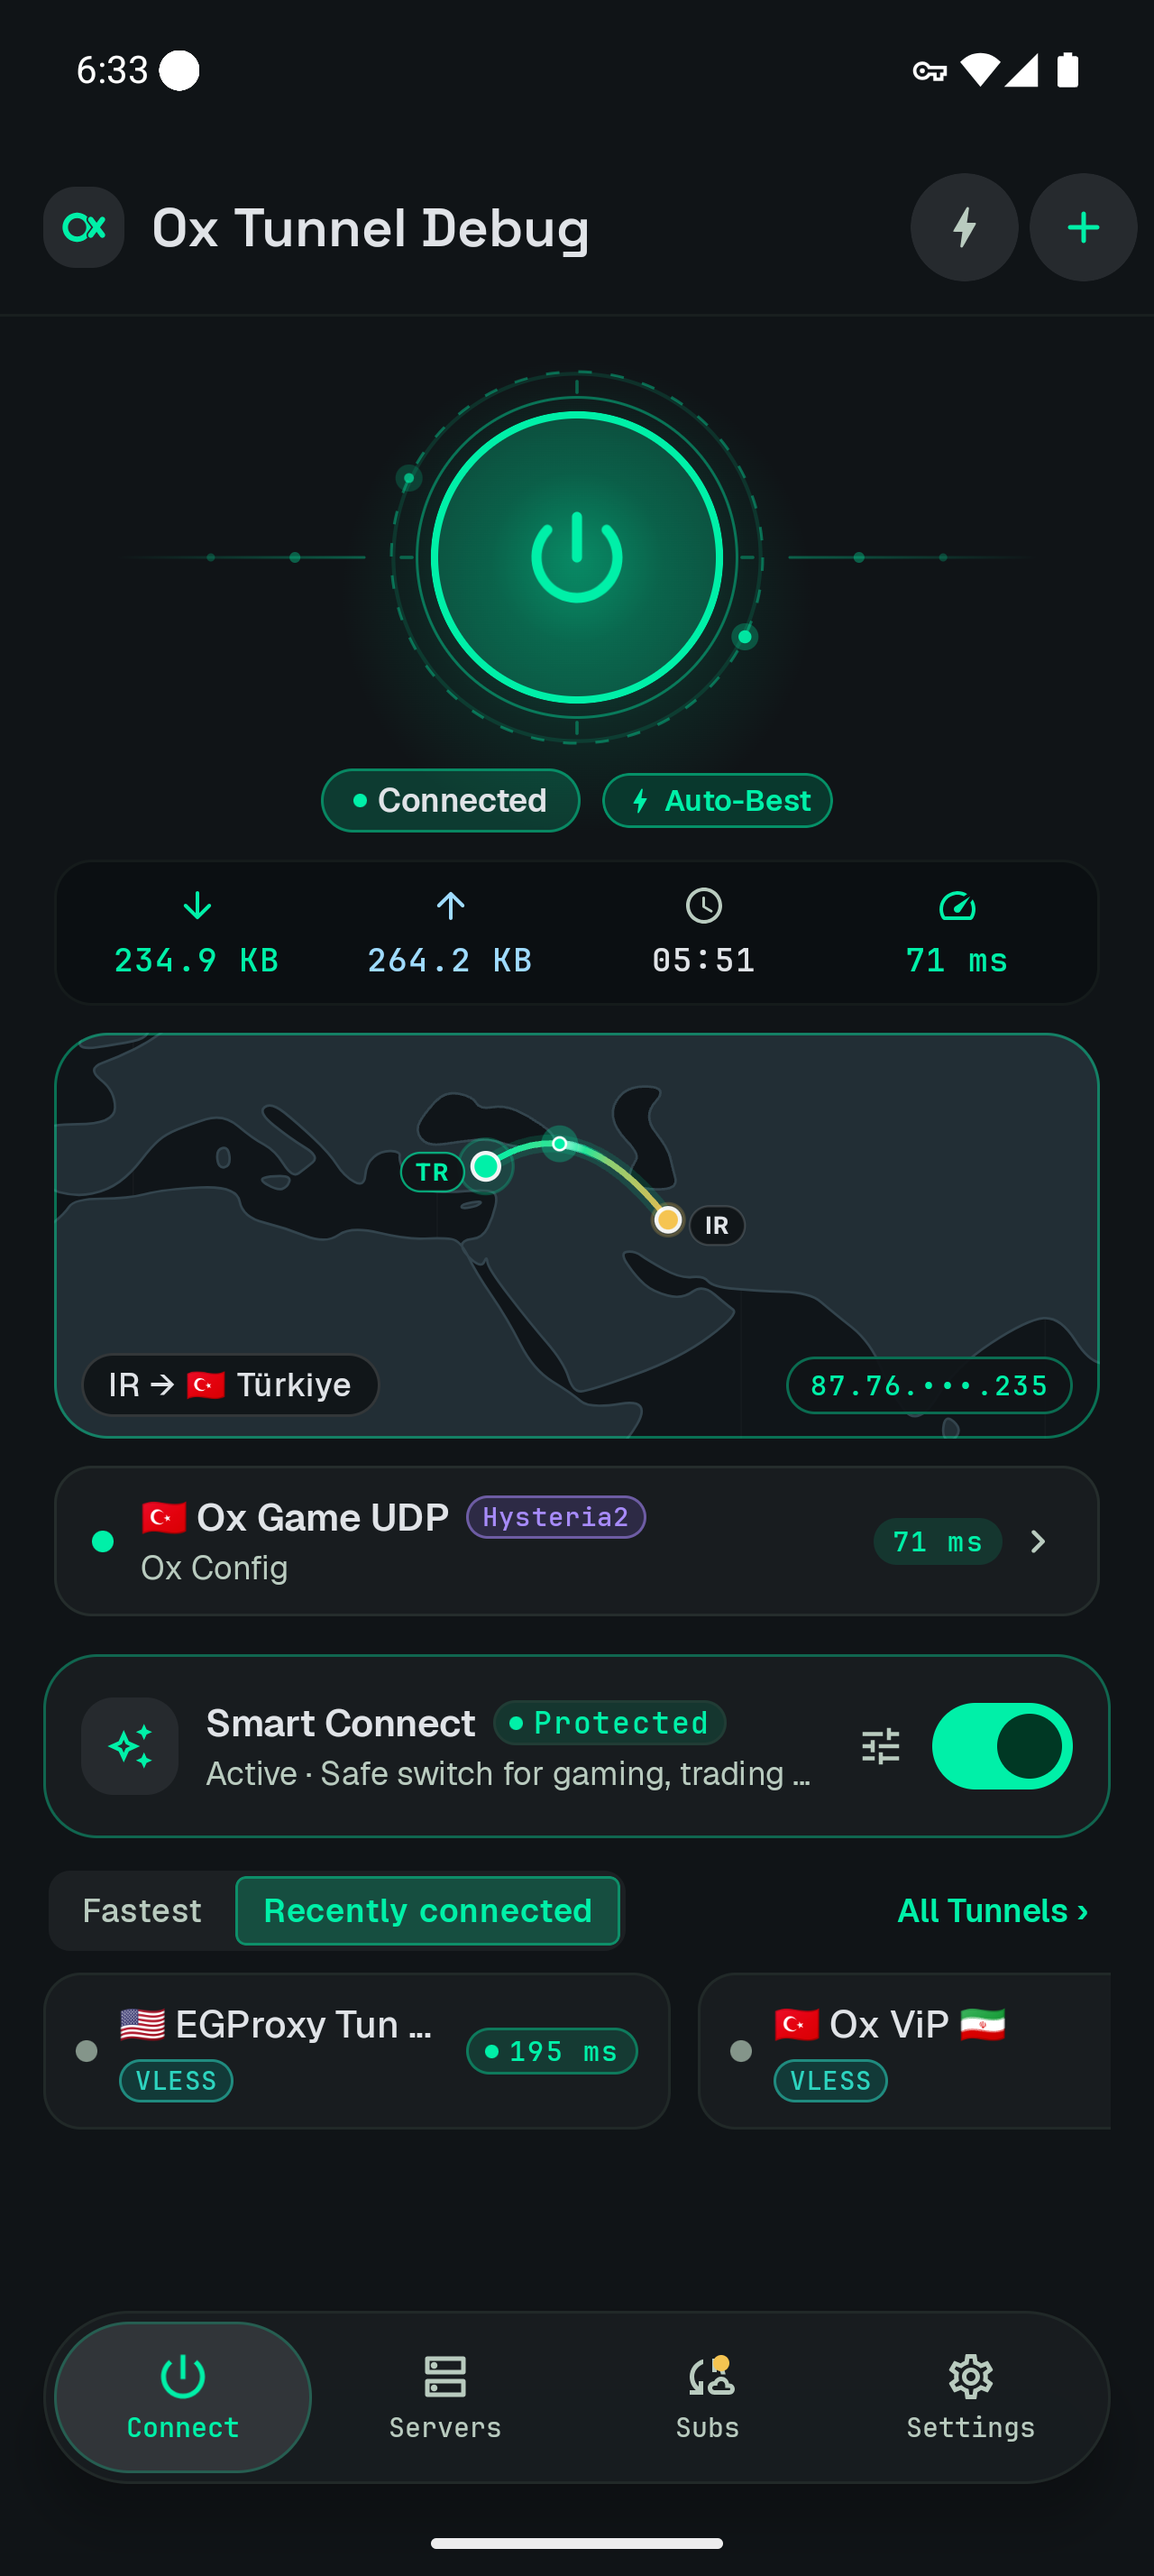
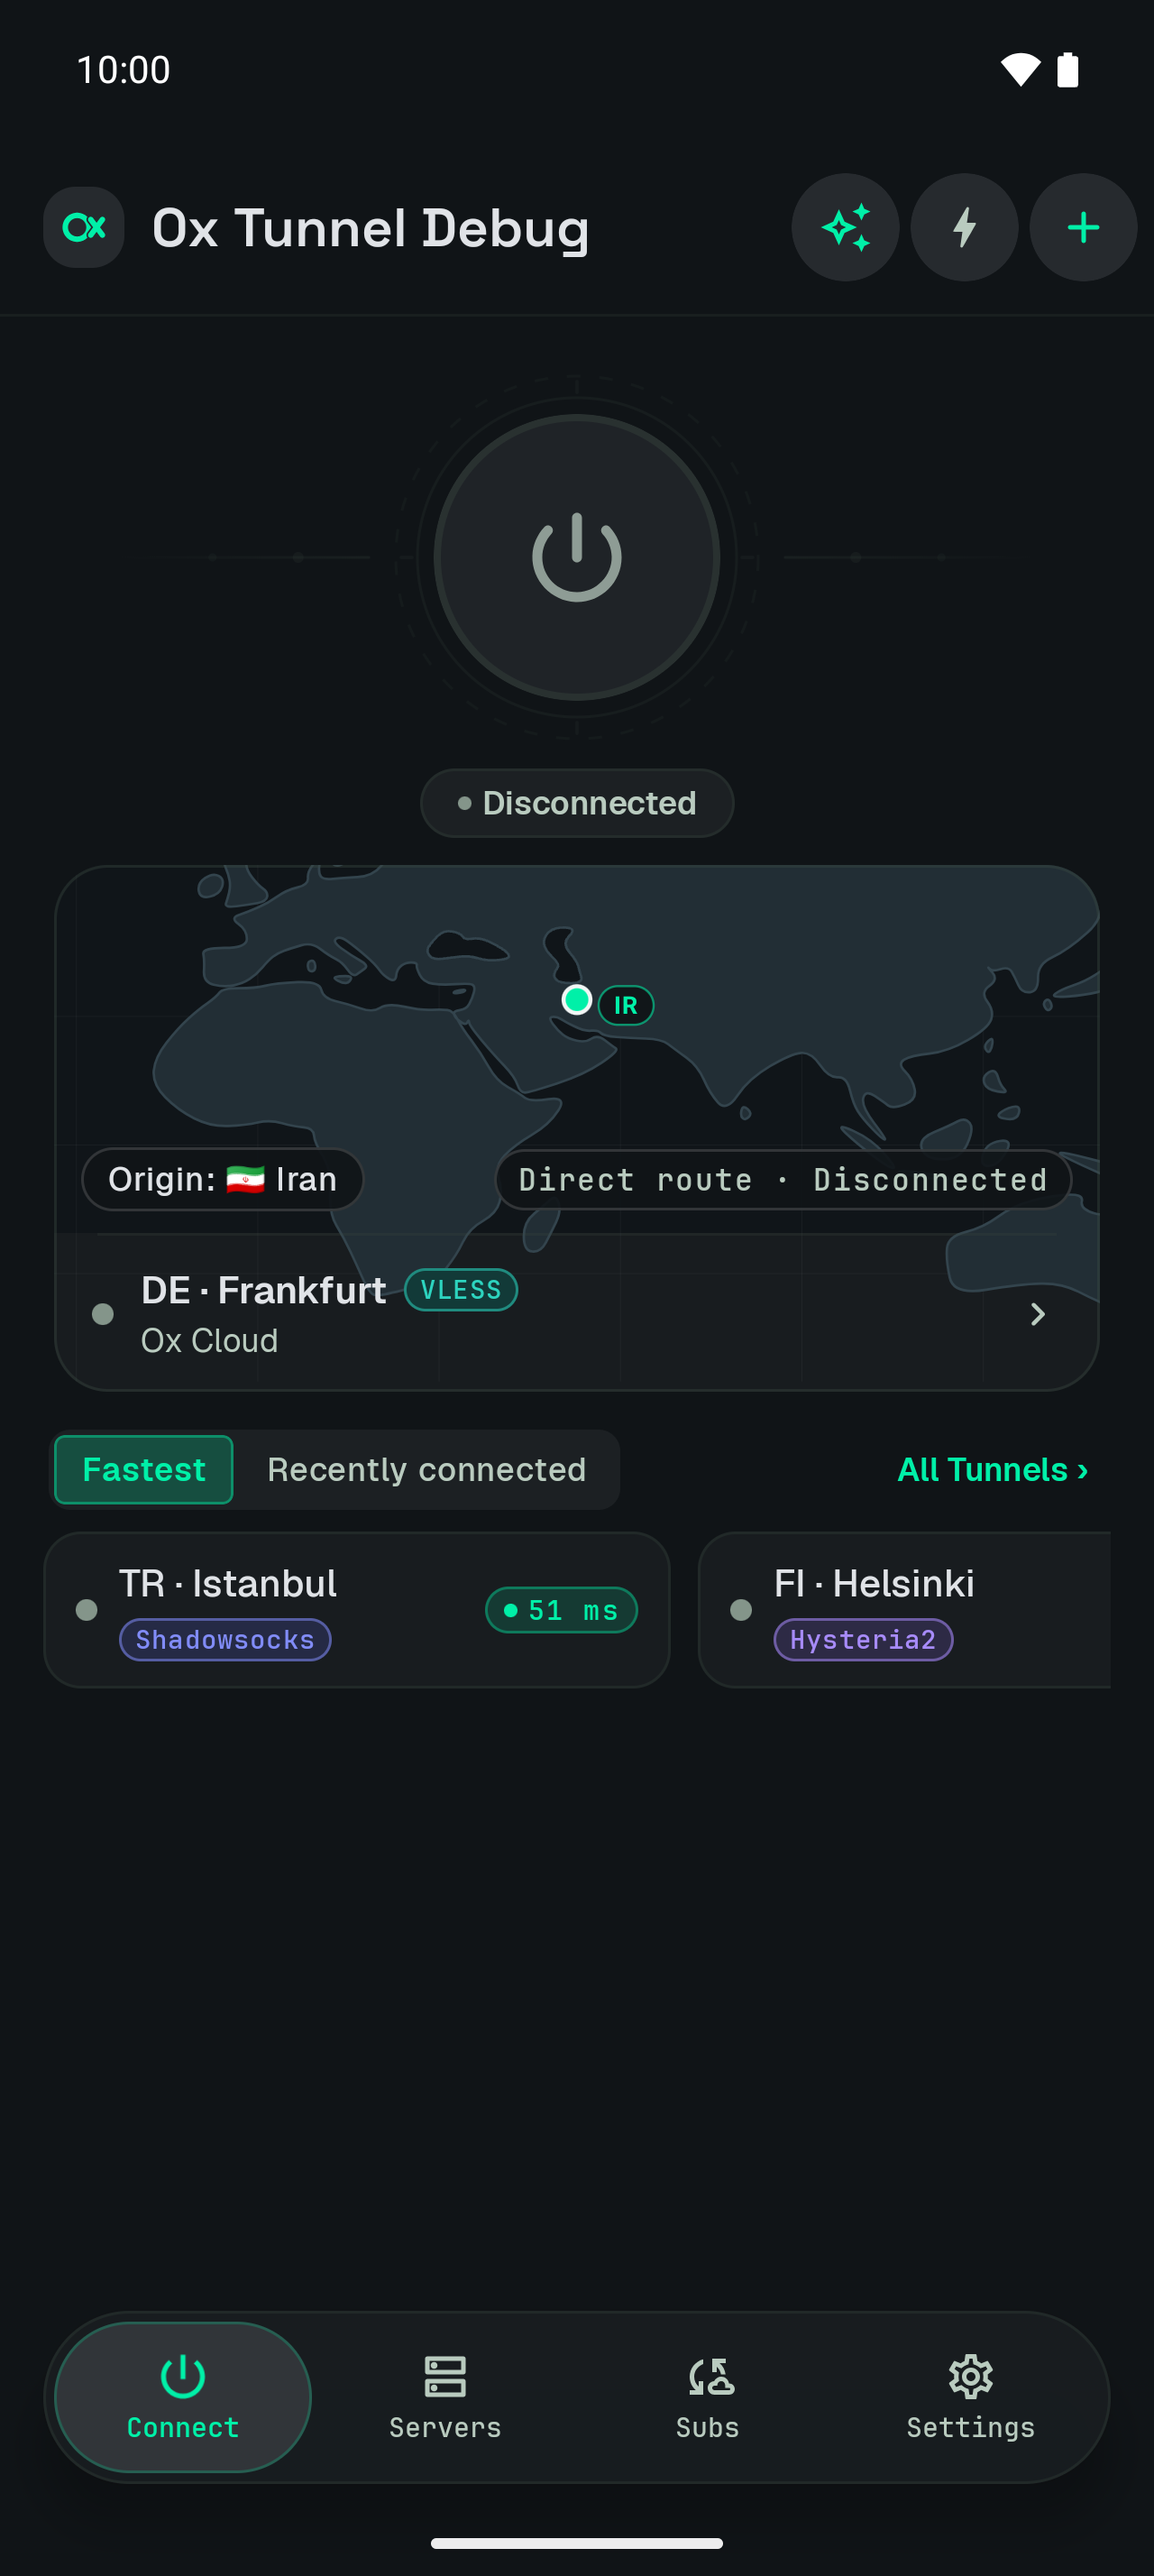
docs: update screenshots for v1.5.3

diff --git a/README.md b/README.md
@@ -6,7 +6,13 @@ VPN client for Android: WireGuard, AmneziaWG, and V2Ray/Xray configs in one plac
 
 [**Download**](https://github.com/MasterALiReza/OxTunnel/releases/latest) · [Telegram](https://t.me/OxVpN_Net)
 
-<img src="screenshots/01-connect-dark.png" width="190"> <img src="screenshots/02-servers-dark.png" width="190"> <img src="screenshots/05-subs-light.png" width="190"> <img src="screenshots/06-settings-light.png" width="190">
+<img src="screenshots/01-connect-dark.png" width="190"> <img src="screenshots/02-servers-dark.png" width="190"> <img src="screenshots/03-subs-dark.png" width="190"> <img src="screenshots/04-manage-dark.png" width="190">
+
+<details>
+<summary>More screenshots</summary>
+<br>
+<img src="screenshots/05-connect-light.png" width="190"> <img src="screenshots/06-settings-dark.png" width="190"> <img src="screenshots/07-notifications-dark.png" width="190">
+</details>
 
 </div>
 
